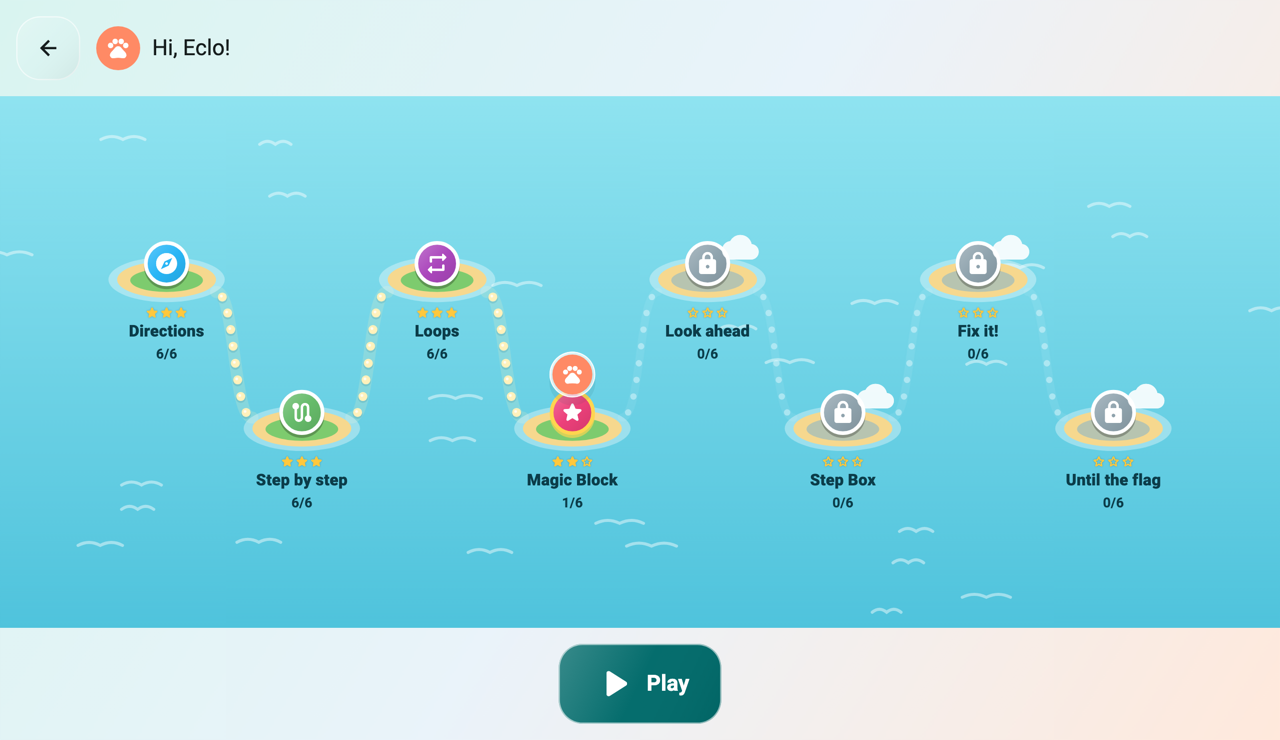
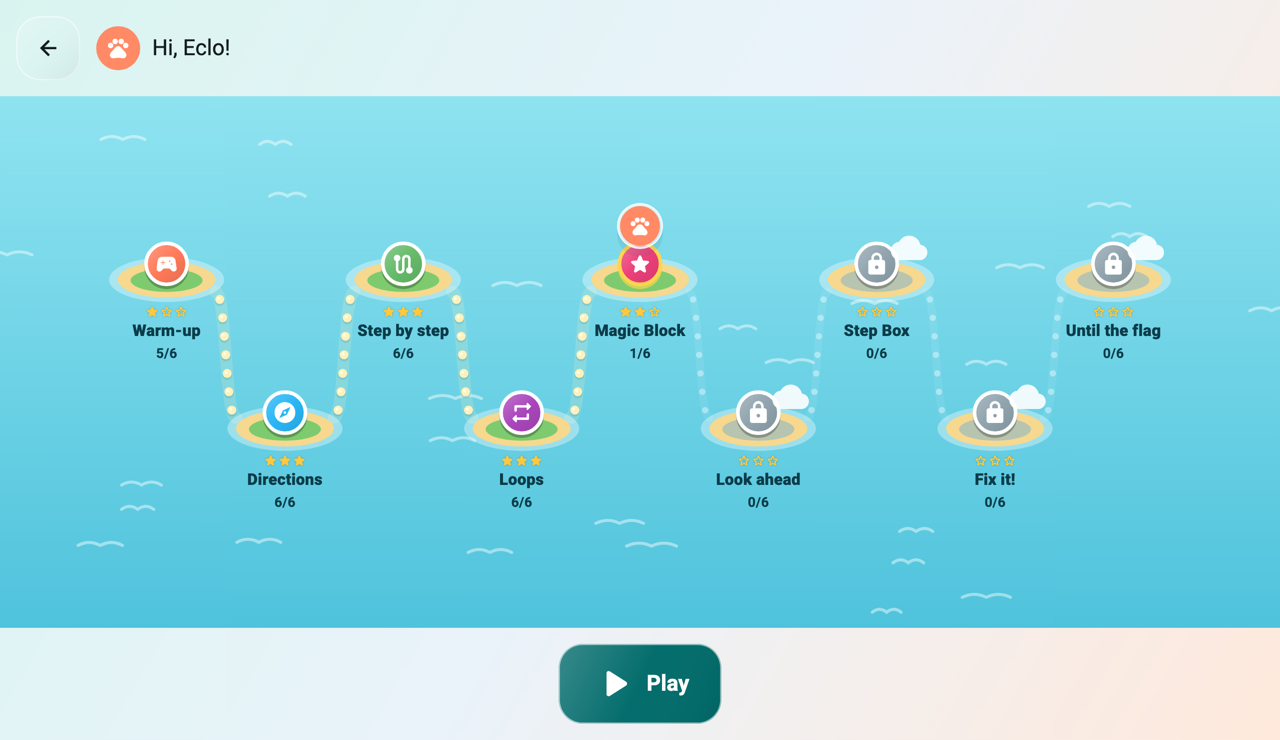
docs(store): Warm-up island in build 9 notes, listing, website and map

Changed region(s): [[0.0938, 0.2797, 0.5938, 0.6838], [0.5312, 0.4973, 0.9375, 0.6838], [0.625, 0.3108, 0.9375, 0.4973]]

diff --git a/website/index.html b/website/index.html
@@ -154,7 +154,7 @@
             <div class="step-text">
               <span class="num">1</span>
               <h3 data-en="Play the warm-up">Main pemanasan</h3>
-              <p data-en="A short, picture-based game with voice finds the right starting point: reading, counting, left and right, patterns and order. It feels like play, not a test.">Permainan singkat bergambar dengan suara menemukan titik awal yang pas: membaca, berhitung, kiri dan kanan, pola, dan urutan. Rasanya seperti bermain, bukan ujian.</p>
+              <p data-en="A short, picture-based game with voice finds the right starting point: reading, counting, left and right, patterns and order. It feels like play, not a test. Afterwards the games stay on the Warm-up island, with colours and shapes too.">Permainan singkat bergambar dengan suara menemukan titik awal yang pas: membaca, berhitung, kiri dan kanan, pola, dan urutan. Rasanya seperti bermain, bukan ujian. Setelah itu, permainannya tetap ada di pulau Pemanasan, ditambah warna dan bentuk.</p>
             </div>
             <div class="shot">
               <img src="screenshots/warm-up-pattern-id.png" width="1280" height="740" loading="lazy"
@@ -196,24 +196,35 @@
     <section id="islands">
       <div class="wrap">
         <div class="section-head">
-          <h2 data-en="Eight islands to explore">Delapan pulau untuk dijelajahi</h2>
-          <p data-en="Each island teaches one idea of coding, one small puzzle at a time.">Setiap pulau mengajarkan satu konsep coding, satu teka-teki kecil setiap kali.</p>
+          <h2 data-en="Nine islands to explore">Sembilan pulau untuk dijelajahi</h2>
+          <p data-en="Picture games on the Warm-up island, then one idea of coding per island, one small puzzle at a time.">Permainan bergambar di pulau Pemanasan, lalu satu konsep coding di setiap pulau, satu teka-teki kecil setiap kali.</p>
         </div>
         <div class="carousel island-show" data-carousel
-             aria-roledescription="carousel" aria-label="Delapan pulau"
-             data-en-label="Eight islands">
+             aria-roledescription="carousel" aria-label="Sembilan pulau"
+             data-en-label="Nine islands">
           <div class="tabs" role="group">
-            <button type="button" data-slide="0" style="--c: #29B6F6" data-en="Directions">Arah</button>
-            <button type="button" data-slide="1" style="--c: #66BB6A" data-en="Step by step">Langkah demi langkah</button>
-            <button type="button" data-slide="2" style="--c: #AB47BC" data-en="Loops">Perulangan</button>
-            <button type="button" data-slide="3" style="--c: #EC407A" data-en="Magic Block">Blok Ajaib</button>
-            <button type="button" data-slide="4" style="--c: #00897B" data-en="Look ahead">Lihat depan</button>
-            <button type="button" data-slide="5" style="--c: #EF6C00" data-en="Step Box">Kotak Langkah</button>
-            <button type="button" data-slide="6" style="--c: #5C6BC0" data-en="Fix it!">Perbaiki!</button>
-            <button type="button" data-slide="7" style="--c: #7CB342" data-en="Until the flag">Sampai bendera</button>
+            <button type="button" data-slide="0" style="--c: #FF7A59" data-en="Warm-up">Pemanasan</button>
+            <button type="button" data-slide="1" style="--c: #29B6F6" data-en="Directions">Arah</button>
+            <button type="button" data-slide="2" style="--c: #66BB6A" data-en="Step by step">Langkah demi langkah</button>
+            <button type="button" data-slide="3" style="--c: #AB47BC" data-en="Loops">Perulangan</button>
+            <button type="button" data-slide="4" style="--c: #EC407A" data-en="Magic Block">Blok Ajaib</button>
+            <button type="button" data-slide="5" style="--c: #00897B" data-en="Look ahead">Lihat depan</button>
+            <button type="button" data-slide="6" style="--c: #EF6C00" data-en="Step Box">Kotak Langkah</button>
+            <button type="button" data-slide="7" style="--c: #5C6BC0" data-en="Fix it!">Perbaiki!</button>
+            <button type="button" data-slide="8" style="--c: #7CB342" data-en="Until the flag">Sampai bendera</button>
           </div>
           <div class="stage">
             <div class="track" tabindex="0">
+            <figure class="slide" style="--c: #FF7A59">
+              <img src="screenshots/warm-up-island-id.png" width="1280" height="740" loading="lazy"
+                   data-en-src="screenshots/warm-up-island.png"
+                   alt="Pulau Pemanasan: enam permainan bergambar dengan bintangnya"
+                   data-en-alt="The Warm-up island: six picture games with their stars">
+              <figcaption>
+                <strong data-en="Warm-up">Pemanasan</strong>
+                <span data-en="Counting, colours, shapes, patterns, left and right, and steps, for the youngest players.">Berhitung, warna, bentuk, pola, kiri dan kanan, serta langkah, untuk pemain termuda.</span>
+              </figcaption>
+            </figure>
             <figure class="slide" style="--c: #29B6F6">
               <img src="screenshots/island-directions-id.png" width="1280" height="740" loading="lazy"
                    data-en-src="screenshots/island-directions.png"

diff --git a/website/changelog.html b/website/changelog.html
@@ -51,11 +51,11 @@
       <h2>1.1.0 <span class="build" data-en="build 9">build 9</span></h2>
       <p class="updated"><time datetime="2026-10-07" data-en="7 October 2026">7 Oktober 2026</time></p>
       <ul>
-        <li data-en="No more getting stuck on a finished island. A dotted trail shows how many puzzles are left until the next island, and the new island opens with a small celebration.">Tidak ada lagi tertahan di pulau yang sudah tuntas. Jejak titik menunjukkan sisa teka-teki sampai pulau berikutnya, dan pulau baru dibuka dengan perayaan kecil.</li>
-        <li data-en="Press the light bulb a second time to see the part that repeats. The bulb glows when a hint might help.">Tekan lampu sekali lagi untuk melihat bagian yang berulang. Lampu menyala saat petunjuk bisa membantu.</li>
-        <li data-en="Parents can set a break reminder in the parent area.">Orang tua bisa mengatur pengingat istirahat di area orang tua.</li>
-        <li data-en="Code now has the same colours as its blocks.">Kode kini berwarna sama dengan bloknya.</li>
-        <li data-en="A gentle buzz when a block is placed.">Getaran lembut saat blok dipasang.</li>
+        <li data-en="New Warm-up island with picture games for little ones: counting, colours, shapes, patterns, left and right, and steps.">Pulau Pemanasan baru dengan permainan bergambar untuk si kecil: berhitung, warna, bentuk, pola, kiri dan kanan, serta langkah.</li>
+        <li data-en="Finished islands now lead on: dots show the puzzles left, and the next island opens with a celebration.">Pulau yang tuntas kini berlanjut: titik menunjukkan sisa teka-teki, dan pulau berikutnya dibuka dengan perayaan.</li>
+        <li data-en="Press the light bulb twice to see the part that repeats. It glows when a hint might help.">Tekan lampu dua kali untuk melihat bagian yang berulang. Lampu menyala saat petunjuk bisa membantu.</li>
+        <li data-en="Parents can set a break reminder.">Orang tua bisa mengatur pengingat istirahat.</li>
+        <li data-en="Code has the same colours as its blocks, and placing a block gives a gentle buzz.">Kode berwarna sama dengan bloknya, dan memasang blok memberi getaran lembut.</li>
       </ul>
     </article>
     <article class="release" id="build-8">
